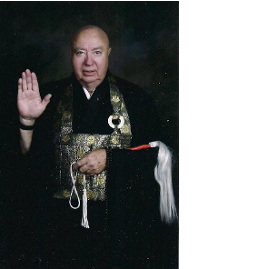
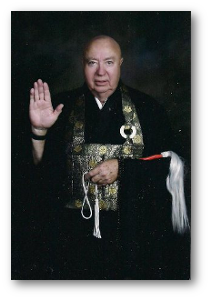
fixed pictures of lineage

diff --git a/css/main.css b/css/main.css
@@ -239,7 +239,12 @@ ol, ul {
 
 blockquote {
   margin-left: 1rem;
-  color: #6F4E37;
+  /*color: #7f5042;*/
+  color: #8f594d;
+}
+
+strong {
+  color: #8f594d;
 }
 
 nav.group {
@@ -331,11 +336,12 @@ cite {
   font-family: "Gill Sans", "Gill Sans MT", "Lato", Calibri, sans-serif; }
 
 pre code, pre code p, code {
-  font-family: Consolas, "Liberation Mono", Menlo, Courier, monospace;
+  font-family: "Gill Sans", "Gill Sans MT", "Lato", Calibri, sans-serif;
+  /*font-family: Consolas, "Liberation Mono", Menlo, Courier, monospace;*/
   color: #222;
-  font-size: 1.2rem;
+  font-size: 1.3rem;
   line-height: 1.63333333333;
-  background-color: #f7f7f7;
+  /*background-color: #f7f7f7; */
   border-radius: 3px;
   white-space: pre-wrap;    /* Wrap long lines */
   width: 55%;
@@ -349,7 +355,7 @@ pre {
   white-space: pre-wrap;    /* Wrap long lines */
   border-radius: 3px;
   margin: 5px 0px 10px 0px;
-  background-color: #f7f7f7;
+  /*background-color: #f7f7f7;*/
   width: 55%;
 }
 
@@ -410,9 +416,9 @@ sub {
   margin-right: -60%;
   width: 50%;
   margin-top: 0rem;
-  margin-bottom: 1.96rem;
+  margin-bottom: 1.56rem;
   font-size: 1.1rem;
-  line-height: 1.96;
+  line-height: 1.56;
   vertical-align: baseline;
   position: relative; }
 

diff --git a/about/index.md b/about/index.md
@@ -2,24 +2,29 @@
 layout: page
 title: About Compassionate Path
 ---
-We are a small buddhist community dedicated to helping people navigate joy and sorrow in their <span class='marginnote'><img class="fullwidth" src="/img/daihoHilbert.png">Rev. Dr. Daiho Hilbert Roshi</span> lives. We seek to integrate highly accessible buddhist practices  and modern urban life. Using meditation, chanting, and study, we offer practical ways for people to skillfully negotiate the challenges they face and more clearly engage with the world.
+We are a small Buddhist community dedicated to<span class='marginnote'>Our Lineage from top to bottom: Rev. Dr. Daiho Hilbert Roshi, Rev. Ken Hogaku McGuire Roshi, and Rev. Dr. Soyu Zengaku Matsuoka Roshi </span>  helping people navigate joy and sorrow in their <span class='marginnote'><img class="fullwidth" src="/img/daiho.png"></span> lives. We seek to integrate highly accessible buddhist practices  and modern urban life. Using meditation, chanting, and study, we offer practical ways for people to skillfully negotiate the challenges they face and more clearly engage with the world.
 
 
-Our aim is to foster <span class='marginnote'><img class="fullwidth" src="/img/McGuire.png">Rev. Ken Hogaku McGuire Roshi</span>a community that is both compassionate and engaged. This compassionate path is the root of Zen Buddhism and also aligns with Karen Armstrong's [Charter for Compassion](http://charterforcompassion.org/sign-share-charter) which states:
+Our aim is to foster <span class='marginnote'><img class="fullwidth" src="/img/McGuire.png"></span>a community that is both compassionate and engaged. This compassionate path is the root of Zen Buddhism and also aligns with Karen Armstrong's [Charter for Compassion](http://charterforcompassion.org/sign-share-charter) which states:
 
 > Compassion impels us to work tirelessly to alleviate the suffering of our fellow creatures, to dethrone ourselves from the center of our world and put another there, and to honor the inviolable sanctity of every single human being, treating everybody, without exception, with absolute justice, equity and respect. 
 
 
-**You can get involved** by dropping in to our Tuesday  night meditation group, attending a book study or service, or by scheduling an informal meeting. 
+You can get involved by dropping in to our Tuesday  night meditation group, attending a book study or service, or by scheduling an informal meeting. 
 
 #### Our Lineage
 
-The Compassionate Path community is affiliated with *The Order of Clear Mind Zen* founded in 2005 by Rev. Dr. Harvey Daiho Hilbert Roshi.<span class='marginnote'><img class="fullwidth" src="/img/matsuokaG.png">Dr. Soyu Zengaku Matsuoka Roshi </span>. Clear Mind Zen is an Engaged Buddhist training and practice order  in the lineage of Rev. Dr. Soyu Zengaku Matsuoka Roshi. As Daiho Roshi says, the focus of the Order is simply to *eliminate evil, do good, and bring about abundant good for all beings* by social action. 
+The Compassionate Path community is rooted in the Soto Zen School and affiliated with *The Order of Clear Mind Zen* founded in 2005 by Rev. Dr. Harvey Daiho Hilbert Roshi.<span class='marginnote'><img class="fullwidth" src="/img/matsuoka.png"></span> Clear Mind Zen is an Engaged Buddhist training and practice order  in the lineage of Rev. Dr. Soyu Zengaku Matsuoka Roshi. The goal of the order is to bring about abundant good for all beings through social action. 
 
-Matsuoka Roshi was among the first Soto Zen masters to teach in the United States.  He ordained three priests. One of them, Rev. Ken Hogaku Shozen McGuire Roshi brought the lineage to New Mexico in the 1960s. He was also a Great Master in the Vietnamese Rinzai Zen tradition. Daiho Roshi was one of his students.
+Matsuoka Roshi was among the first Soto Zen masters to teach in the United States.  He ordained three priests. One of them, Rev. Ken Hogaku Shozen McGuire Roshi brought the lineage to New Mexico in the 1960s. Rev. Ken was also a Great Master in the Vietnamese Rinzai Zen tradition. Daiho Roshi was ordained by Rev. Ken in 2000 and received dharma transmission in 2005.
 
 
 
 
 #### Teacher
 My name is Rev. Dr. Ron Mitsugo Zacharski or simply *Ron*. I was ordained a Zen priest in 2015. If you would like to know more about Compassionate Path or Zen in general please contact me at ron.zacharski@gmail.com or 575.680.4041. 
+
+    This morning I vow with all beings
+    To see the world clearly, As it is.
+    To end violence
+    And bring compassion to all beings.
